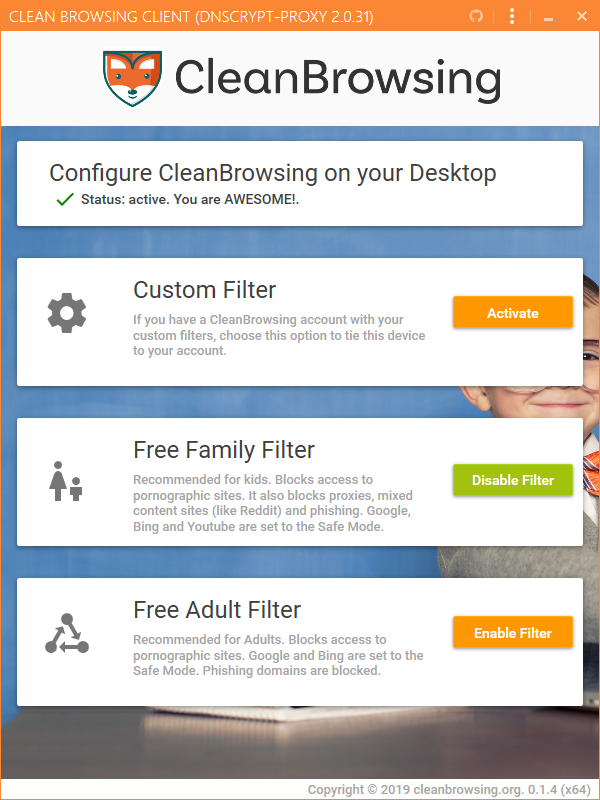
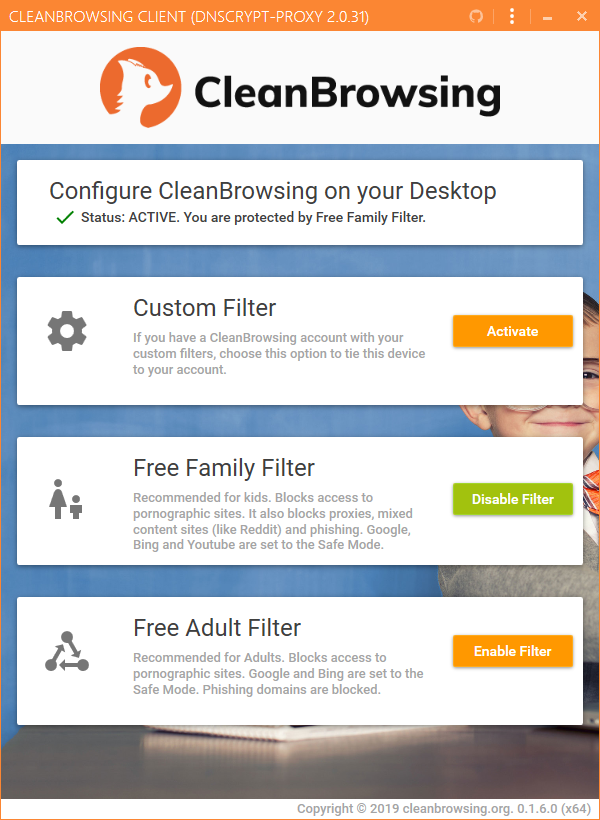
Update active message and screenshots

diff --git a/src/CleanBrowsingClient/Views/MainView.xaml b/src/CleanBrowsingClient/Views/MainView.xaml
@@ -57,7 +57,7 @@
                                         <Setter Property="Text" Value="Status: Not active. Please enable any of our filters."/>
                                     </DataTrigger>
                                     <DataTrigger Binding="{Binding IsProtected}" Value="True">
-                                        <Setter Property="Text" Value="Status: active. You are AWESOME!."/>
+                                        <Setter Property="Text" Value="{Binding IsProtectedText}"/>
                                     </DataTrigger>
                                 </Style.Triggers>
                             </Style>

diff --git a/src/CleanBrowsingClient/ViewModels/MainWindowViewModel.cs b/src/CleanBrowsingClient/ViewModels/MainWindowViewModel.cs
@@ -91,6 +91,26 @@ namespace CleanBrowsingClient.ViewModels
             get { return _isCustomFilterEnabled || _isFamilyFilterEnabled || _isAdultFilterEnabled; }
         }
 
+        public string IsProtectedText
+        {
+            get
+            {
+                if (_isCustomFilterEnabled)
+                {
+                    return "Status: ACTIVE. You are protected by Custom Filter.";
+                }
+                else if (_isFamilyFilterEnabled)
+                {
+                    return "Status: ACTIVE. You are protected by Free Family Filter.";
+                }
+                else if (_isAdultFilterEnabled)
+                {
+                    return "Status: ACTIVE. You are protected by Free Adult Filter.";
+                }
+                return "Status: ACTIVE (unknown filter)";
+            }
+        }
+
         public bool IsCustomFilterEnabled
         {
             get { return _isCustomFilterEnabled; }
